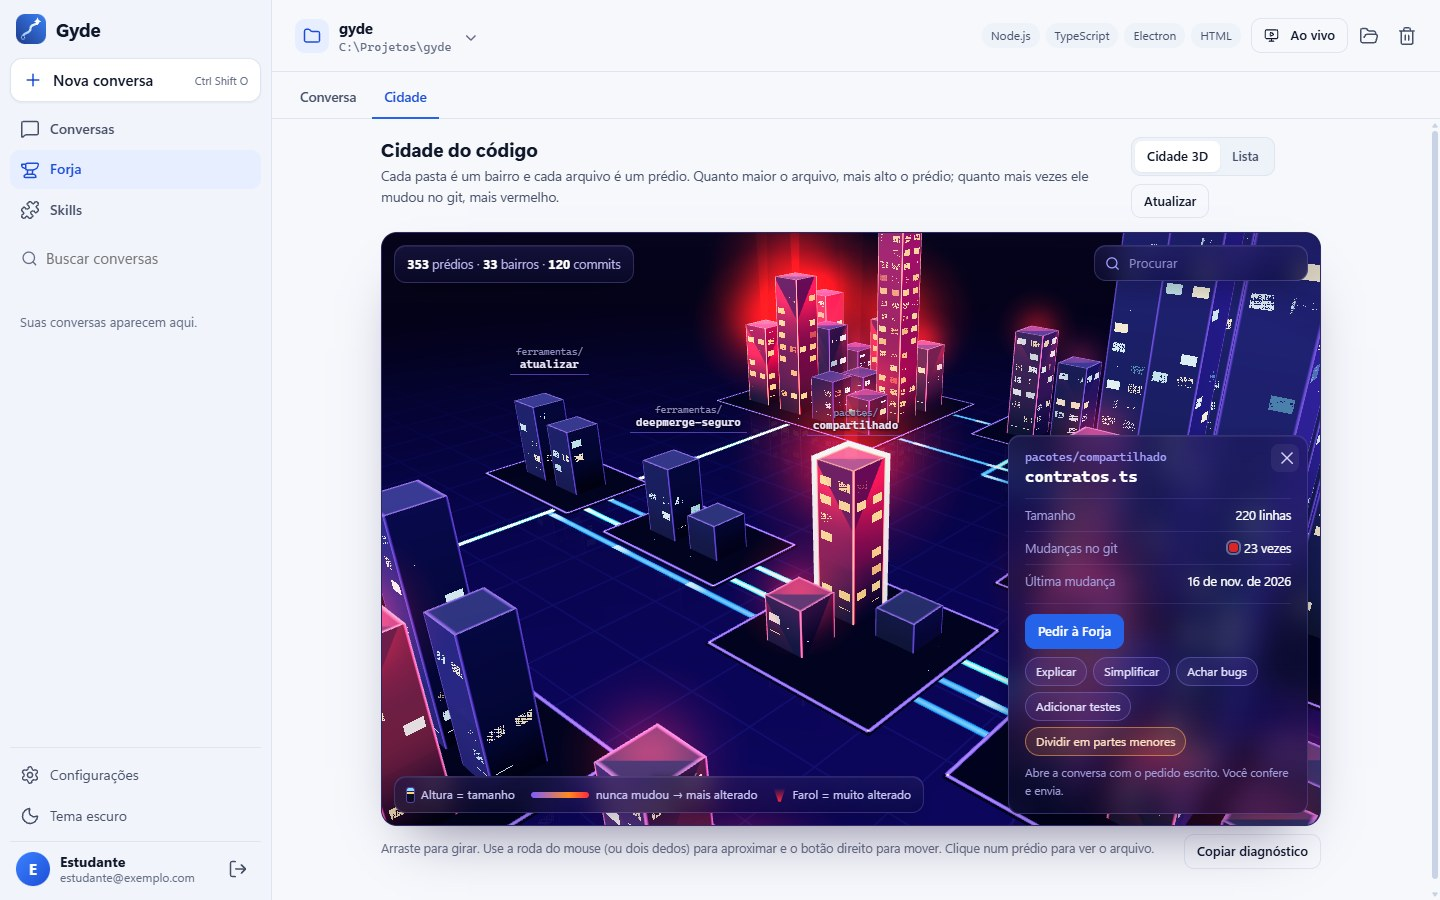
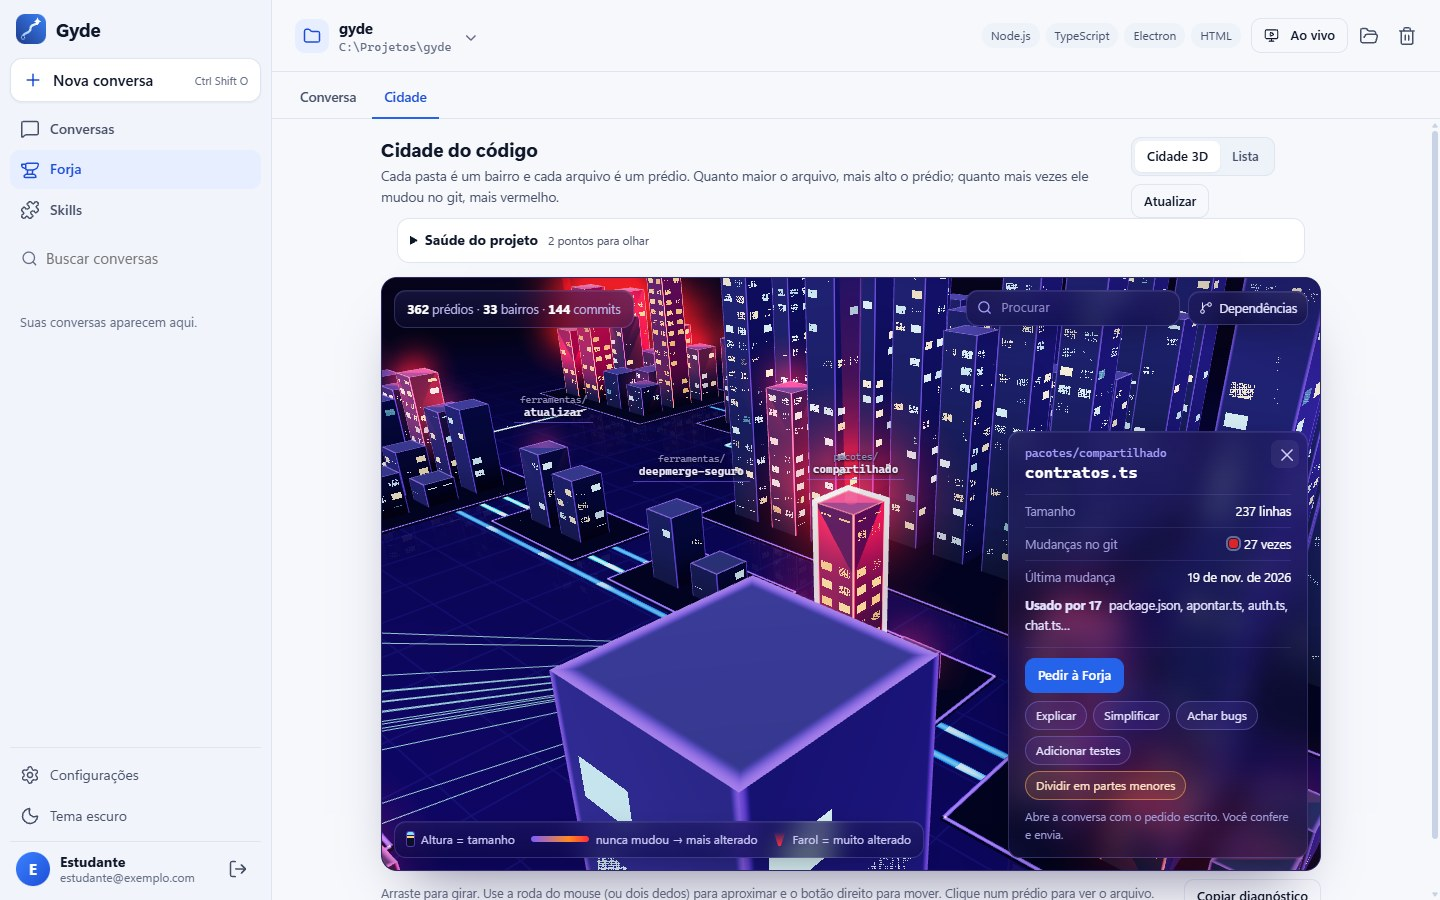
Gyde 2.9.0: documentação da Cidade e do Ao vivo, capturas e versão

diff --git a/CHANGELOG.md b/CHANGELOG.md
@@ -3,6 +3,24 @@
 As extensões seguem a versão do app desde a 2.1.0. Histórico da extensão do VS Code:
 [pacotes/extensao-vscode/CHANGELOG.md](pacotes/extensao-vscode/CHANGELOG.md).
 
+## 2.9.0
+
+### Cidade: quem depende de quem, e a saúde do projeto
+- **Ruas de dependência:** o Gyde lê as importações entre os arquivos (JavaScript e TypeScript, Python, CSS, HTML e
+  caminhos citados em package.json e manifest.json), sem rodar o projeto. Na cidade, as ruas do prédio escolhido
+  aparecem em destaque e o cartão diz o que ele importa e quem usa ele; o botão **Dependências** mostra todas.
+  São linhas finas, desenhadas de uma vez, para continuar leve em placa de vídeo integrada.
+- **Saúde do projeto:** arquivos de código e linhas, testes, arquivos grandes (com atalho para pedir à Forja que
+  divida), dependências em ciclo, código que ninguém importa (com o aviso de conferir antes de apagar) e os mais
+  alterados no git. Código de terceiros copiado para o projeto fica de fora.
+- Na cópia do código do Gyde (353 arquivos), ler as ruas e a saúde soma 105 ms (mediana de 5) à leitura da cidade.
+
+### Ao vivo
+- Num projeto com ferramenta conhecida na raiz (Vite, Next.js, Angular...), o Ao vivo recomenda o servidor dela antes de
+  servir o index.html como site pronto. Conferido com projetos de verdade (`ferramentas/conferir-ao-vivo.mjs`): site de
+  HTML, Vite, Next.js 15 e programa Python de console, 4 de 4 funcionando (o Vite e o Next.js com o npm install, que
+  precisa de internet).
+
 ## 2.8.0
 
 ### Primeiro uso

diff --git a/README.md b/README.md
@@ -129,6 +129,10 @@ o arquivo. Prefere texto? O botão **Lista** mostra o mesmo em forma acessível.
 opções rápidas: explicar, simplificar, achar bugs e adicionar testes. Nos faróis aparece também **dividir em partes
 menores**. O pedido é só escrito no campo da Forja; quem envia é você. A cidade continua reagindo enquanto a Forja trabalha.
 
+**Dependências e saúde:** as ruas mostram quem importa quem (lido do código, sem rodar o projeto); ao escolher um
+prédio, as ruas dele acendem e o cartão diz o que ele importa e quem usa ele. O painel **Saúde do projeto** conta
+arquivos grandes, dependências em ciclo, código que ninguém importa, testes e os mais alterados.
+
 Roda em placa de vídeo integrada (desenha direto na tela). Os extras, como o brilho (bloom), só ligam sozinhos em placa
 dedicada e depois de uma checagem de segurança. O botão **Copiar diagnóstico** junta a placa de vídeo, as checagens e
 os tempos de quadro, sem dados pessoais, para relatar um problema.

diff --git a/docs/andamento.md b/docs/andamento.md
@@ -3,13 +3,12 @@
 Atualizado a cada etapa. Se a sessão parar, "continue" retoma daqui.
 
 ## Publicadas
-- Fase 1: 2.5.0 (PR #7). Fase 2: 2.6.0 (PR #8). Fase 3: 2.7.0 (PR #9).
+- Fase 1: 2.5.0 (PR #7). Fase 2: 2.6.0 (PR #8). Fase 3: 2.7.0 (PR #9). Fase 4: 2.8.0 (PR #10).
 
-## Fase atual: 4, primeiro uso (branch `fase-4-primeiro-uso`, versão 2.8.0)
-Feito: Primeiros passos, Diagnóstico, atualização automática testada (decisoes.md, itens 18 a 21). Falta: PR, CI,
-Release.
+## Fase atual: 5, Cidade e Ao vivo (branch `fase-5-cidade`, versão 2.9.0)
+Feito: ruas de dependência, saúde do projeto, Ao vivo conferido com HTML, Vite, Next.js e Python (decisoes.md, 22 e 23).
+Falta: PR, CI, Release.
 
 ## Depois
-- Fase 5: Cidade (ruas de dependência, saúde do projeto) e Ao vivo (Next.js, Vite, HTML, projeto sem página).
 - Fase 6: site e documentação.
 - Encerramento: revisão crítica, limpeza (inclui docs/imagens/inicio-sem-ia.jpg, que deixou de ser usada), relatório.

diff --git a/docs/decisoes.md b/docs/decisoes.md
@@ -98,3 +98,7 @@ Cada decisão importante, com o motivo. As mais recentes ficam no fim.
     index.html simples, o Ao vivo recomendava servir o index.html como site pronto em vez do servidor do Vite; agora uma
     ferramenta conhecida na raiz (Vite, Next.js, Angular...) vem antes do site estático. Um teste de unidade falha sem
     essa mudança e passa com ela. O teste do Ao vivo deixou de usar rmSync recursivo (usa a lista permitida).
+24. **Instalador refeito da main limpa antes de publicar a 2.8.0.** O instalador tinha terminado de ser gerado enquanto
+    a Fase 5 já mexia nos arquivos do servidor, que o instalador leva direto da pasta; ele poderia sair misturado. Foi
+    gerado de novo a partir da main (com a Fase 4) antes da Release. Daqui em diante, o instalador de cada versão é
+    gerado da main depois do merge.

diff --git a/COMO-INSTALAR.md b/COMO-INSTALAR.md
@@ -10,7 +10,7 @@ administrador do computador nem saber usar o terminal.
 ## 1. Baixar o instalador
 
 1. Abra a página **[Releases do Gyde](https://github.com/gustavomdeschamps/Gyde/releases/latest)**.
-2. Na parte **Assets** (no fim da versão mais nova), clique em **`Gyde-Setup-2.8.0.exe`** (o número pode ser maior,
+2. Na parte **Assets** (no fim da versão mais nova), clique em **`Gyde-Setup-2.9.0.exe`** (o número pode ser maior,
    se houver uma versão mais nova). O download começa.
 
 ## 2. Instalar

diff --git a/pacotes/extensao-vscode/CHANGELOG.md b/pacotes/extensao-vscode/CHANGELOG.md
@@ -1,5 +1,9 @@
 # Novidades
 
+## 2.9.0 (junto com o Gyde 2.9.0)
+
+- Sem mudanças na extensão: a versão acompanha o app.
+
 ## 2.8.0 (junto com o Gyde 2.8.0)
 
 - Sem mudanças na extensão: a versão acompanha o app.
